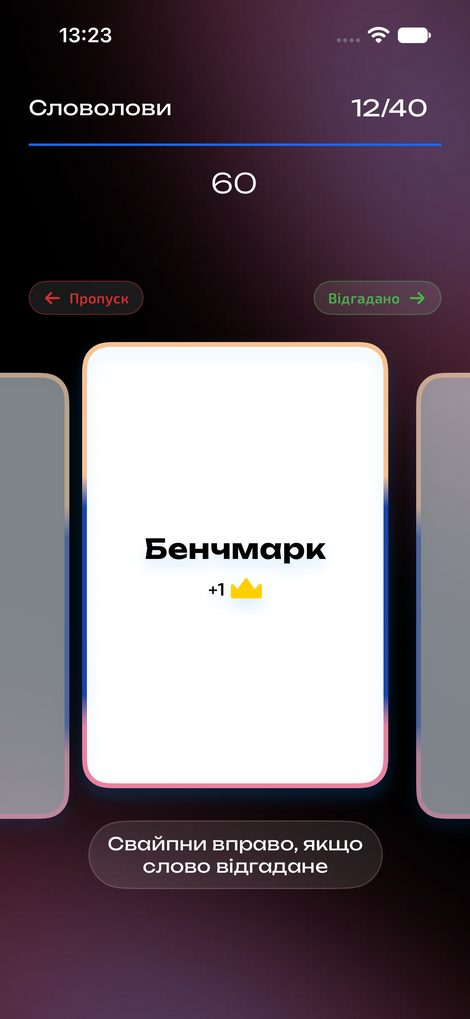
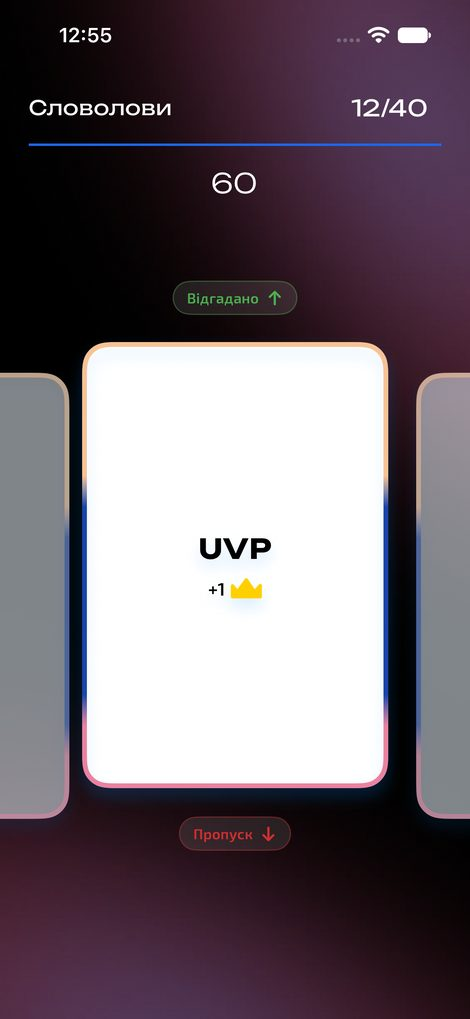
Свайпи вгору/вниз: оновлені знімки гри й карток
Claude-Session: https://claude.ai/code/session_01CGPdZXhbxxUGrxYWeE1EMW

diff --git a/index.html b/index.html
@@ -268,9 +268,9 @@ figcaption{cursor:zoom-in}
 </figure><figure class="card" tabindex="0" data-route="gameplayHint" data-label="Підказки свайпу" data-note="На кожну нову партію" data-src="shots/gameplayHint.jpg">
 <div class="shot"><img src="shots/gameplayHint.jpg" alt="Підказки свайпу" loading="lazy"></div>
 <figcaption><b>Підказки свайпу</b><span class="note">На кожну нову партію</span></figcaption>
-</figure><figure class="card" tabindex="0" data-route="gameplaySwipe" data-label="Свайп вправо" data-note="Вердикт видно під пальцем" data-src="shots/gameplaySwipe.jpg">
-<div class="shot"><img src="shots/gameplaySwipe.jpg" alt="Свайп вправо" loading="lazy"></div>
-<figcaption><b>Свайп вправо</b><span class="note">Вердикт видно під пальцем</span></figcaption>
+</figure><figure class="card" tabindex="0" data-route="gameplaySwipe" data-label="Свайп угору" data-note="Вердикт видно під пальцем" data-src="shots/gameplaySwipe.jpg">
+<div class="shot"><img src="shots/gameplaySwipe.jpg" alt="Свайп угору" loading="lazy"></div>
+<figcaption><b>Свайп угору</b><span class="note">Вердикт видно під пальцем</span></figcaption>
 </figure><figure class="card" tabindex="0" data-route="gameplayStreak" data-label="Бонус за серію" data-note="Спалах при серії" data-src="shots/gameplayStreak.jpg">
 <div class="shot"><img src="shots/gameplayStreak.jpg" alt="Бонус за серію" loading="lazy"></div>
 <figcaption><b>Бонус за серію</b><span class="note">Спалах при серії</span></figcaption>
